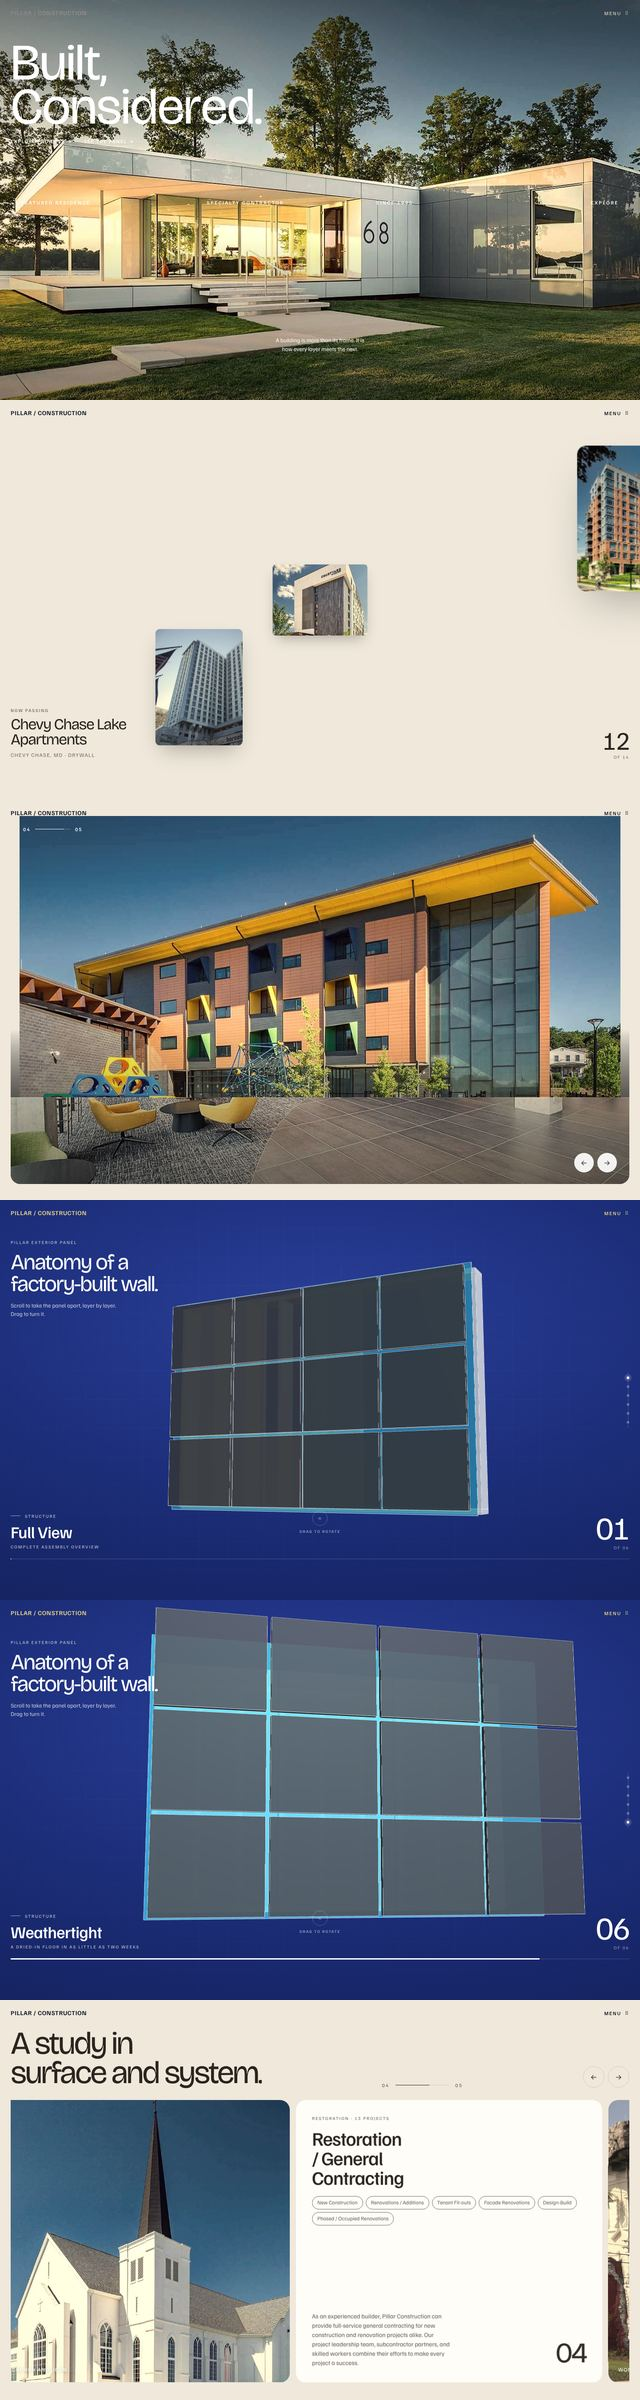
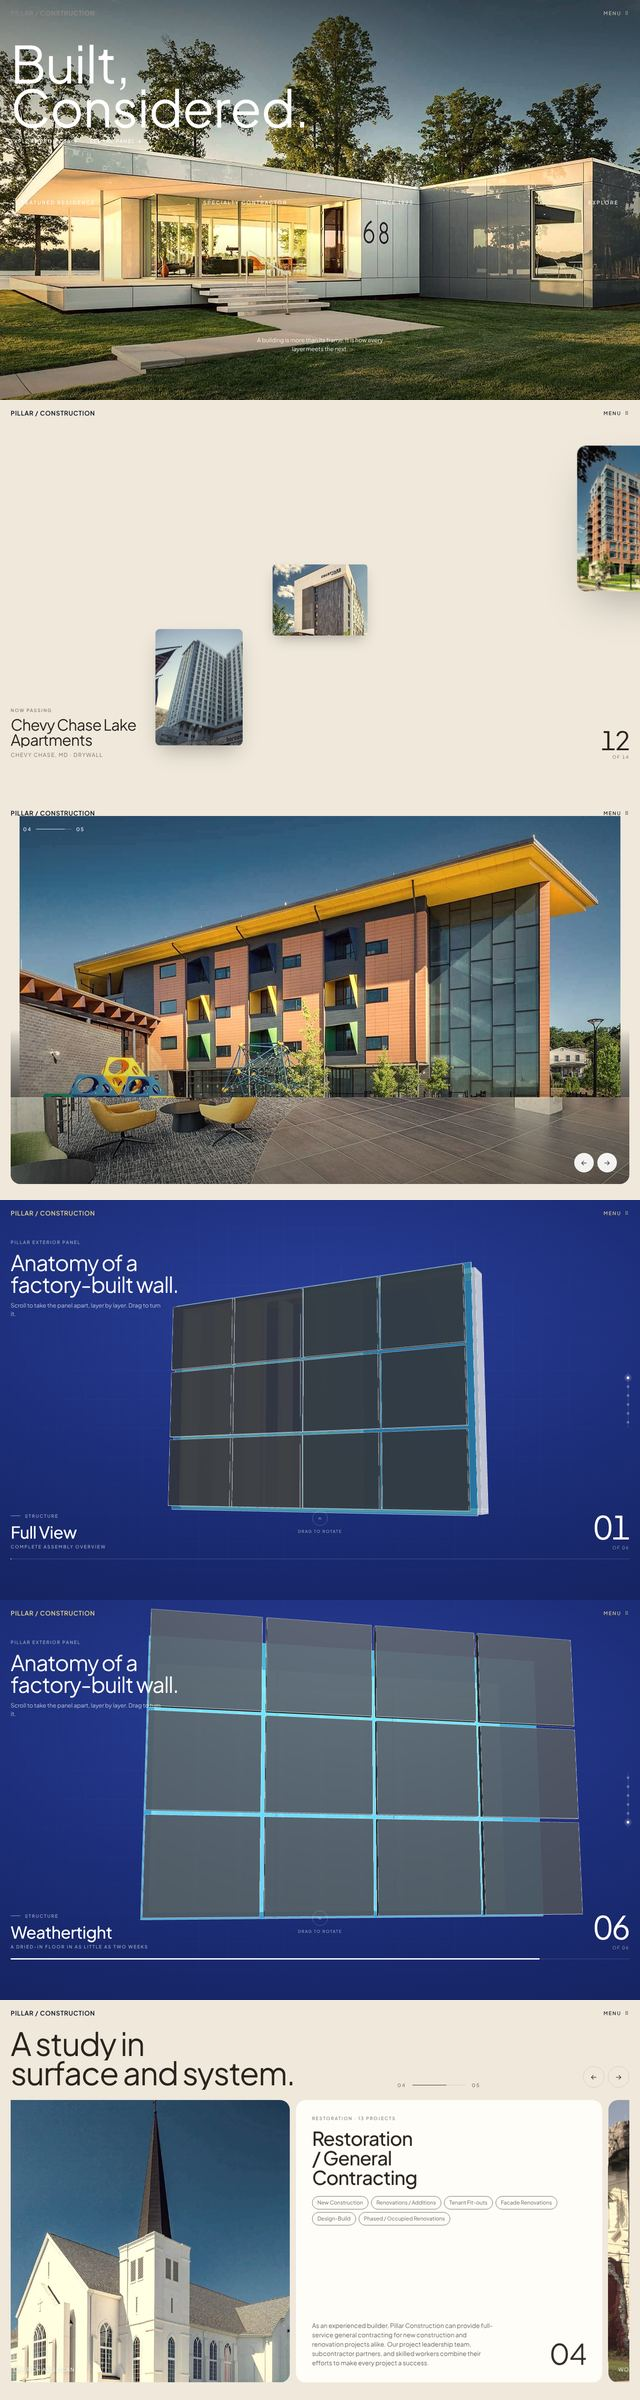
Option 01: set everything in Plus Jakarta Sans
Claude-Session: https://claude.ai/code/session_019PWCajMM1o9e1Z4tehWbBf

diff --git a/01-anatomy.html b/01-anatomy.html
@@ -5,13 +5,13 @@
 <meta name="viewport" content="width=device-width,initial-scale=1,viewport-fit=cover">
 <title>Pillar Anatomy</title>
 <link rel="preconnect" href="https://fonts.googleapis.com"><link rel="preconnect" href="https://fonts.gstatic.com" crossorigin>
-<link rel="stylesheet" href="https://fonts.googleapis.com/css2?family=Bricolage+Grotesque:opsz,wght@12..96,300..600&family=Familjen+Grotesk:wght@400;500;600&display=swap">
+<link rel="stylesheet" href="https://fonts.googleapis.com/css2?family=Plus+Jakarta+Sans:ital,wght@0,300..700;1,300..500&display=swap">
 <link rel="stylesheet" href="assets/core.css">
 <style>
 /* Layout: warm sand pages interrupted by a deep-navy pinned "anatomy" chamber; rounded image slabs. */
 :root{
   --sand:#efe8db; --sand-2:#e6dccb; --ink:#2a241f; --mute:#7b7064; --navy:#1d2f7c; --navy-2:#13205a; --paper:#fffdf8; --line:rgba(42,36,31,.14);
-  --disp:"Bricolage Grotesque","Familjen Grotesk",system-ui,sans-serif; --sans:"Familjen Grotesk",system-ui,sans-serif;
+  --disp:"Plus Jakarta Sans","Helvetica Neue",Arial,sans-serif; --sans:"Plus Jakarta Sans","Helvetica Neue",Arial,sans-serif;
   --gut:max(24px,env(safe-area-inset-left,0px)); --r:22px;
   --px-lb-bg:#14182a; --px-lb-font:var(--sans); --px-lb-display:var(--disp); --px-sw-bg:rgba(29,47,124,.85);
 }
@@ -19,8 +19,8 @@ body{background:var(--sand);color:var(--ink);font:400 16px/1.5 var(--sans)}
 .wrap{padding-left:var(--gut);padding-right:var(--gut)}
 h1,h2,h3{margin:0;font-weight:400;text-wrap:balance}
 .lab{font:500 10px/1 var(--sans);letter-spacing:.2em;text-transform:uppercase}
-/* one sans family throughout: Bricolage for display, Familjen for text */
-.menu a,.hero h1,.cloud h2,.cloud .cap b,.slab .cap h3,.wm .over h3,.ana .head h2,.cards-h h2,.pair .tx .n,.idx h2,.end h2{font-variation-settings:"opsz" 96;letter-spacing:-.05em;font-weight:400}
+/* one sans family throughout: Plus Jakarta Sans, light and tightly set for display */
+.menu a,.hero h1,.cloud h2,.cloud .cap b,.slab .cap h3,.wm .over h3,.ana .head h2,.cards-h h2,.pair .tx .n,.idx h2,.end h2{letter-spacing:-.03em;font-weight:400}
 .cloud h2 em{font-style:normal}
 
 .hd{position:fixed;inset:0 0 auto;z-index:50;display:flex;justify-content:space-between;align-items:center;padding-top:22px;padding-bottom:22px;color:#fff;mix-blend-mode:difference}
